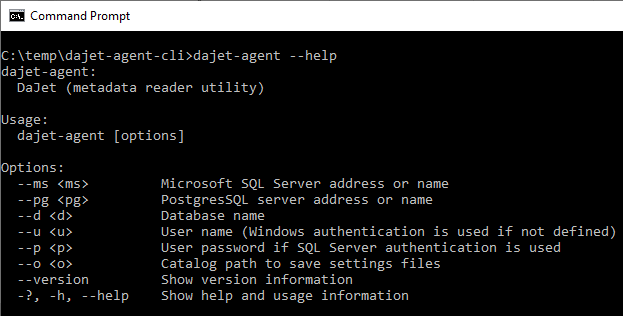
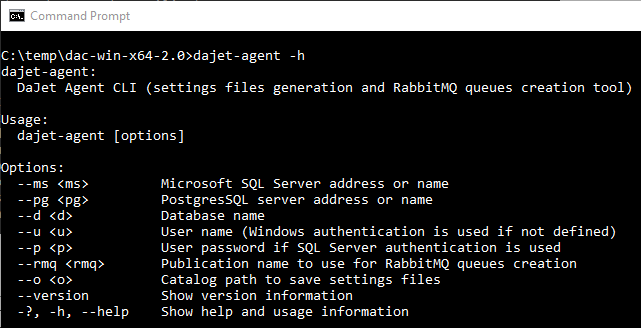
Новый функционал утилиты dajet-agent
Добавлена возможность создавать очереди RabbitMQ по плану обмена 1С. Добавлен новый ключ --rmq.

diff --git a/src/dajet-agent-cli/Program.cs b/src/dajet-agent-cli/Program.cs
@@ -1,8 +1,9 @@
 using DaJet.Agent.Consumer;
 using DaJet.Agent.Producer;
 using DaJet.Metadata;
+using DaJet.Metadata.Mappers;
 using DaJet.Metadata.Model;
-using DaJet.Utilities;
+using RabbitMQ.Client;
 using System;
 using System.Collections.Generic;
 using System.CommandLine;
@@ -20,6 +21,7 @@ namespace DaJet.Agent.CLI
     {
         #region "Constants"
 
+        private const string EXCHANGE_NAMESPACE = "РИБ";
         private const string METAOBJECT_BASE_NAME = "Справочник";
         private const string CONSUMER_TABLE_QUEUE_NAME = "ВходящаяОчередьRabbitMQ";
         private const string PRODUCER_TABLE_QUEUE_NAME = "ИсходящаяОчередьRabbitMQ";
@@ -27,13 +29,28 @@ namespace DaJet.Agent.CLI
         private const string PRODUCER_SETTINGS_FILE_NAME = "producer-settings.json";
         private const string SERVER_IS_NOT_DEFINED_ERROR = "Server address is not defined.";
         private const string DATABASE_IS_NOT_DEFINED_ERROR = "Database name is not defined.";
-        private const string OUTPUT_CATALOG_IS_NOT_DEFINED_ERROR = "Output catalog is not defined.";
+        private const string OUTPUT_CATALOG_IS_NOT_DEFINED = "Output catalog is not defined.";
+        private const string CREATE_RABBITMQ_QUEUES_QUESTION = "Create RabbitMQ message queues for \"{0}\" publication ? [Y/N] ";
+        private const string INPUT_HOST_TEXT = "RabbitMQ host (localhost): ";
+        private const string INPUT_PORT_TEXT = "RabbitMQ port (5672): ";
+        private const string INPUT_USER_TEXT = "RabbitMQ user (guest): ";
+        private const string INPUT_PASS_TEXT = "RabbitMQ pass (guest): ";
+        private const string LOADING_METADATA_NOTICE = "Loading 1C metadata ...";
+        private const string METADATA_LOADED_NOTICE = "1C metadata loaded successfully.";
+        private const string PUBLICATION_IS_NOT_FOUND_WARNING = "Publication \"{0}\" is not found.";
+        private const string FAILED_TO_CREATE_QUEUE_ERROR = "Failed to create queue \"{0}\".";
+        private const string QUEUE_CREATED_SUCCESSFULLY_NOTICE = "Queue \"{0}\" created successfully.";
+        private const string PRESS_ANY_KEY_TO_EXIT_MESSAGE = "Press any key to exit.";
+        private const string SETTINGS_FILES_ARE_GENERATED_SUCCESSFULLY = "Settings files are generated successfully.";
+        private const string SETTINGS_FILES_CATALOG_PATH_NOTICE = "Settings files catalog path: {0}";
 
         #endregion
 
         public static int Main(string[] args)
         {
             //args = new string[] { "--ms", "ZHICHKIN", "--d", "test_node_1", "--o", "C:\\temp" };
+            //args = new string[] { "--ms", "ZHICHKIN", "--d", "my_exchange", "--rmq", "Тестовый" };
+            //args = new string[] { "--pg", "127.0.0.1", "--d", "test_node_2", "--u", "postgres", "--p", "postgres", "--rmq", "Тестовый" };
 
             RootCommand command = new RootCommand()
             {
@@ -42,10 +59,11 @@ namespace DaJet.Agent.CLI
                 new Option<string>("--d", "Database name"),
                 new Option<string>("--u", "User name (Windows authentication is used if not defined)"),
                 new Option<string>("--p", "User password if SQL Server authentication is used"),
+                new Option<string>("--rmq", "Publication name to use for RabbitMQ queues creation"),
                 new Option<FileInfo>("--o", "Catalog path to save settings files")
             };
-            command.Description = "DaJet (metadata reader utility)";
-            command.Handler = CommandHandler.Create<string, string, string, string, string, FileInfo>(ExecuteCommand);
+            command.Description = "DaJet Agent CLI (settings files generation and RabbitMQ queues creation tool)";
+            command.Handler = CommandHandler.Create<string, string, string, string, string, string, FileInfo>(ExecuteCommand);
             return command.Invoke(args);
         }
         private static void ShowErrorMessage(string errorText)
@@ -54,7 +72,7 @@ namespace DaJet.Agent.CLI
             Console.WriteLine(errorText);
             Console.ForegroundColor = ConsoleColor.White;
         }
-        private static void ExecuteCommand(string ms, string pg, string d, string u, string p, FileInfo o)
+        private static void ExecuteCommand(string ms, string pg, string d, string u, string p, string rmq, FileInfo o)
         {
             if (string.IsNullOrWhiteSpace(ms) && string.IsNullOrWhiteSpace(pg))
             {
@@ -64,11 +82,38 @@ namespace DaJet.Agent.CLI
             {
                 ShowErrorMessage(DATABASE_IS_NOT_DEFINED_ERROR); return;
             }
+
             if (o == null)
             {
-                ShowErrorMessage(OUTPUT_CATALOG_IS_NOT_DEFINED_ERROR); return;
+                Console.WriteLine(OUTPUT_CATALOG_IS_NOT_DEFINED);
+            }
+            else
+            {
+                GenerateSettingsFiles(ms, pg, d, u, p, o);
+                Console.WriteLine(SETTINGS_FILES_ARE_GENERATED_SUCCESSFULLY);
+                Console.WriteLine(string.Format(SETTINGS_FILES_CATALOG_PATH_NOTICE, o.FullName));
             }
 
+            if (!string.IsNullOrWhiteSpace(rmq))
+            {
+                try
+                {
+                    CreateRabbitMQQueues(ms, pg, d, u, p, rmq);
+                }
+                catch (Exception error)
+                {
+                    Console.WriteLine(Utilities.ExceptionHelper.GetErrorText(error));
+                }
+                Console.WriteLine();
+                Console.WriteLine(PRESS_ANY_KEY_TO_EXIT_MESSAGE);
+                Console.ReadKey(false);
+            }
+        }
+
+        #region "Settings files generation"
+
+        private static void GenerateSettingsFiles(string ms, string pg, string d, string u, string p, FileInfo o)
+        {
             IMetadataFileReader fileReader = null;
             if (!string.IsNullOrWhiteSpace(ms))
             {
@@ -126,7 +171,7 @@ namespace DaJet.Agent.CLI
 
             settings.DatabaseSettings = new Consumer.DatabaseSettings()
             {
-                DatabaseProvider = MSSQL ? DatabaseProviders.SQLServer : DatabaseProviders.PostgreSQL,
+                DatabaseProvider = MSSQL ? Utilities.DatabaseProviders.SQLServer : Utilities.DatabaseProviders.PostgreSQL,
                 ConnectionString = fileReader.ConnectionString,
                 DatabaseQueue = new Consumer.DatabaseQueue()
                 {
@@ -196,7 +241,7 @@ namespace DaJet.Agent.CLI
 
             settings.DatabaseSettings = new Producer.DatabaseSettings()
             {
-                DatabaseProvider = MSSQL ? DatabaseProviders.SQLServer : DatabaseProviders.PostgreSQL,
+                DatabaseProvider = MSSQL ? Utilities.DatabaseProviders.SQLServer : Utilities.DatabaseProviders.PostgreSQL,
                 ConnectionString = fileReader.ConnectionString,
                 DatabaseQueue = new Producer.DatabaseQueue()
                 {
@@ -233,5 +278,141 @@ namespace DaJet.Agent.CLI
                 stream.Write(json);
             }
         }
+
+        #endregion
+
+        #region "RabbitMQ message queues creation"
+
+        private static void CreateRabbitMQQueues(string ms, string pg, string d, string u, string p, string rmq)
+        {
+            Console.Write(string.Format(CREATE_RABBITMQ_QUEUES_QUESTION, rmq));
+            string answer = Console.ReadLine();
+            if (answer.ToLowerInvariant() != "y") return;
+
+            Console.Write(INPUT_HOST_TEXT);
+            string host = Console.ReadLine();
+
+            Console.Write(INPUT_PORT_TEXT);
+            string port = Console.ReadLine();
+
+            Console.Write(INPUT_USER_TEXT);
+            string user = Console.ReadLine();
+
+            Console.Write(INPUT_PASS_TEXT);
+            string pass = Console.ReadLine();
+
+            MessageProducerSettings settings = CreateMessageBrokerSettings(host, port, user, pass);
+
+            Metadata.DatabaseProviders provider;
+            IMetadataFileReader fileReader = null;
+            if (!string.IsNullOrWhiteSpace(ms))
+            {
+                provider = Metadata.DatabaseProviders.SQLServer;
+                fileReader = new MetadataFileReader();
+                fileReader.ConfigureConnectionString(ms, d, u, p);
+            }
+            else if (!string.IsNullOrWhiteSpace(pg))
+            {
+                provider = Metadata.DatabaseProviders.PostgreSQL;
+                fileReader = new PostgresMetadataFileReader();
+                fileReader.ConfigureConnectionString(pg, d, u, p);
+            }
+            else
+            {
+                provider = Metadata.DatabaseProviders.SQLServer;
+            }
+
+            Console.WriteLine(LOADING_METADATA_NOTICE);
+            IMetadataReader metadata = new MetadataReader(fileReader);
+            InfoBase infoBase = metadata.LoadInfoBase();
+            Console.WriteLine(METADATA_LOADED_NOTICE);
+
+            MetaObject metaObject = infoBase.Publications.Values
+                .Where(p => p.Name == rmq).FirstOrDefault();
+            if (metaObject == null)
+            {
+                Console.WriteLine(string.Format(PUBLICATION_IS_NOT_FOUND_WARNING, rmq));
+                return;
+            }
+
+            if (!(metaObject is Publication publication))
+            {
+                Console.WriteLine(string.Format(PUBLICATION_IS_NOT_FOUND_WARNING, rmq));
+                return;
+            }
+
+            PublicationDataMapper mapper = new PublicationDataMapper();
+            mapper.UseConnectionString(fileReader.ConnectionString);
+            mapper.UseDatabaseProvider(provider);
+            mapper.SelectSubscribers(publication);
+
+            using (IConnection messageBroker = CreateConnection(settings.MessageBrokerSettings))
+            {
+                string queueName;
+                foreach (Subscriber subscriber in publication.Subscribers)
+                {
+                    if (subscriber.IsMarkedForDeletion) continue;
+                    queueName = CreateQueueName(publication.Publisher.Code, subscriber.Code);
+                    CreateExchangeAndQueue(messageBroker, queueName);
+                    queueName = CreateQueueName(subscriber.Code, publication.Publisher.Code);
+                    CreateExchangeAndQueue(messageBroker, queueName);
+                }
+            }   
+        }
+        private static string CreateQueueName(string producer, string consumer)
+        {
+            return $"{EXCHANGE_NAMESPACE}.{producer}.{consumer}";
+        }
+        private static IConnection CreateConnection(Producer.MessageBrokerSettings settings)
+        {
+            IConnectionFactory factory = new ConnectionFactory()
+            {
+                HostName = settings.HostName,
+                UserName = settings.UserName,
+                Password = settings.Password,
+                Port = settings.PortNumber
+            };
+            return factory.CreateConnection();
+        }
+        private static MessageProducerSettings CreateMessageBrokerSettings(string host, string port, string user, string pass)
+        {
+            return new MessageProducerSettings()
+            {
+                MessageBrokerSettings = new Producer.MessageBrokerSettings()
+                {
+                    HostName = host,
+                    UserName = user,
+                    Password = pass,
+                    PortNumber = int.Parse(port)
+                }
+            };
+        }
+        private static void CreateExchangeAndQueue(IConnection messageBroker, string queueName)
+        {
+            try
+            {
+                IModel channel = messageBroker.CreateModel();
+
+                channel.ExchangeDeclare(queueName, ExchangeType.Direct, true, false, null);
+
+                QueueDeclareOk queue = channel.QueueDeclare(queueName, true, false, false, null);
+                if (queue == null)
+                {
+                    Console.WriteLine(string.Format(FAILED_TO_CREATE_QUEUE_ERROR, queueName));
+                }
+                else
+                {
+                    channel.QueueBind(queueName, queueName, string.Empty, null);
+                    Console.WriteLine(string.Format(QUEUE_CREATED_SUCCESSFULLY_NOTICE, queueName));
+                }
+            }
+            catch (Exception error)
+            {
+                Console.WriteLine(string.Format(FAILED_TO_CREATE_QUEUE_ERROR, queueName));
+                Console.WriteLine(Utilities.ExceptionHelper.GetErrorText(error));
+            }
+        }
+
+        #endregion
     }
 }

diff --git a/README.md b/README.md
@@ -7,11 +7,14 @@
 Для работы утилиты генерации файлов настроек и агентов обмена данными требуется установка [.NET Core 3.1](https://dotnet.microsoft.com/download).
 
 <details>
-<summary>Утилита для генерации файлов настроек</summary>
+<summary>Утилита для генерации файлов настроек и создания очередей RabbitMQ по плану обмена 1С</summary>
 
 [Скачать утилиту](https://github.com/zhichkin/dajet-agent/releases/).
 
 Поддерживается работа с базами данных 1С на Microsoft SQL Server и PostgreSQL.
+
+<details>
+<summary>Генерация файлов настроек</summary>
 
 Файлы настроек должны быть расположены в корневом каталоге установки агента обмена данными **DaJet.Agent.Service.exe**.
 
@@ -38,6 +41,30 @@
 ![Пример использования для PostgreSQL](https://github.com/zhichkin/dajet-agent/blob/main/doc/dajet-agent-pg-usage.png)
 
 **Примечание:** в случае необходимости указать порт для **PostgreSQL** адрес сервера можно указать, например, так: **127.0.0.1:5432**
+
+</details>
+
+<details>
+<summary>Создание очередей RabbitMQ по плану обмена 1С</summary>
+
+Для автоматического создания очередей RabbitMQ используется параметр утилиты **--rmq**, в котором указывается имя плана обмена 1С,
+для которого создаются очереди. Эта процедура выполняется для центральной базы данных РИБ, где хранятся сведения обо всех узлах обмена.
+
+Для узлов плана обмена, которые помечены на удаление в 1С, операция не выполняется.
+
+**Пример использования:**
+
+![Пример автоматического создания очередей RabbitMQ](https://github.com/zhichkin/dajet-agent/blob/main/doc/dajet-agent-rmq-usage.png)
+
+В данном примере план обмена называется "Тестовый". Имя плана обмена указывается так, как оно задано в конфигураторе 1С.
+
+![Имя плана обмена](https://github.com/zhichkin/dajet-agent/blob/main/doc/exchange-plan-name.png)
+
+Утилита попросит ввести данные для подключения к серверу RabbitMQ.
+
+По окончанию своей работы покажет результат или сообщит об ошибке.
+
+</details>
 
 </details>
 
